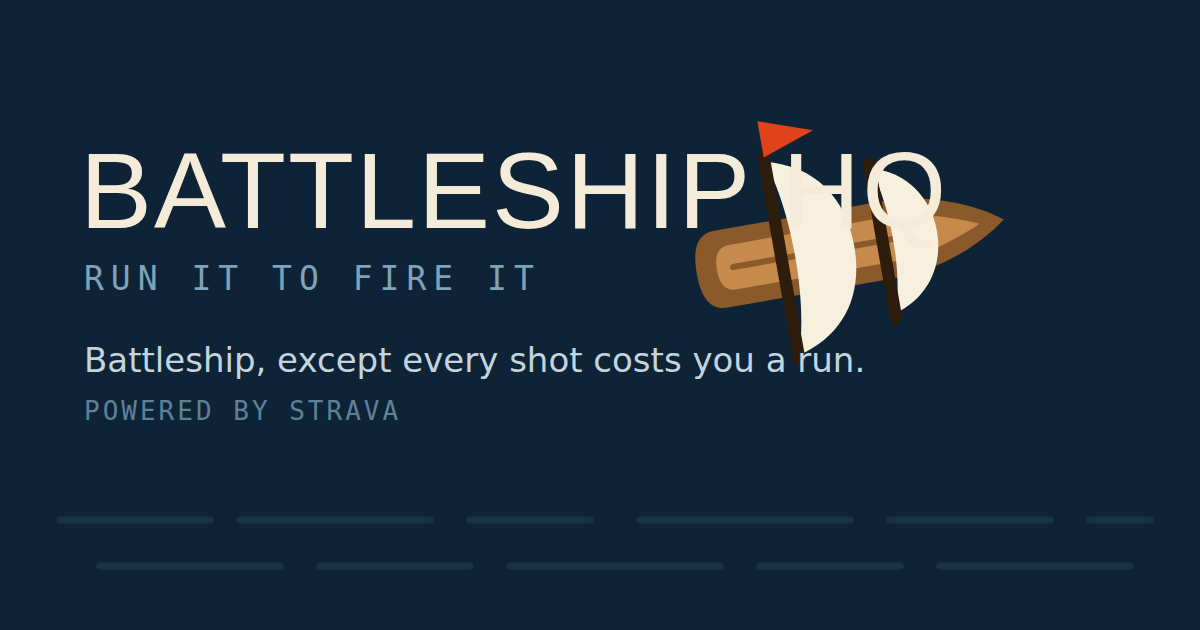
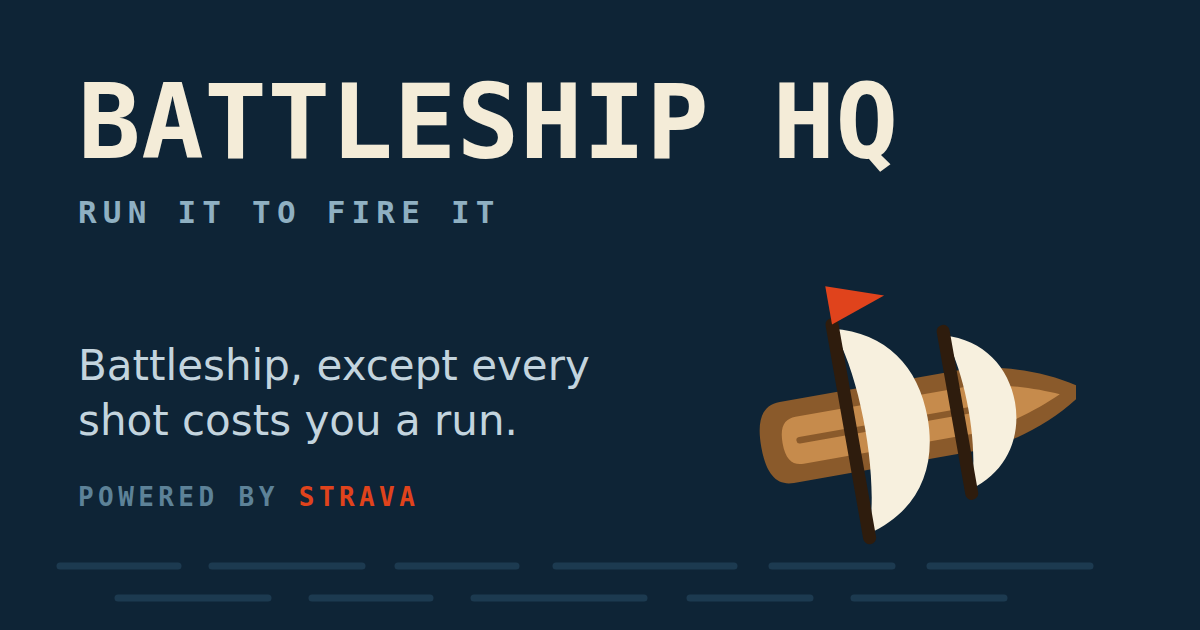
Add files via upload

diff --git a/index.html b/index.html
@@ -16,9 +16,14 @@
 
 <!-- what a text message shows instead of a grey script.google.com box -->
 <meta property="og:type" content="website">
+<meta property="og:url" content="https://timfslabach.github.io/battleship-hq/">
 <meta property="og:title" content="Battleship HQ">
 <meta property="og:description" content="Battleship, except every shot costs you a run. Powered by Strava.">
-<meta property="og:image" content="og.png">
+<!-- Absolute, not relative: Messages, Facebook and the rest fetch this URL from their own
+     servers with no page context, so a relative path silently yields no preview image. -->
+<meta property="og:image" content="https://timfslabach.github.io/battleship-hq/og.png">
+<meta property="og:image:width" content="1200">
+<meta property="og:image:height" content="630">
 <meta name="twitter:card" content="summary_large_image">
 
 <style>
@@ -40,6 +45,8 @@
   a.go:hover{filter:brightness(1.08)}
   .fine{margin:22px 0 0;font:500 12px var(--mono);letter-spacing:.06em;color:#5d8298}
   .fine a{color:#5d8298}
+  /* same orange as the flag on the ship — sampled straight out of the icon */
+  .fine b{color:var(--hot);font-weight:700}
 </style>
 </head>
 <body>
@@ -49,7 +56,7 @@
     <p class="tag">Run it to fire it</p>
     <p>Battleship, except every shot costs you a run.</p>
     <a class="go" id="go" href="https://script.google.com/macros/s/AKfycbxTwXOoFDQDzHdhsJmTvWgWWVUVGDS61T_ngYo5QPc8YZGQCzEC1v_Hd8GyObtf2N7K/exec">Open the game</a>
-    <p class="fine">Powered by Strava</p>
+    <p class="fine">Powered by <b>Strava</b></p>
   </div>
 <script>
   /* Straight through to the game, unless the URL ends in #stay — which is how you sit on
